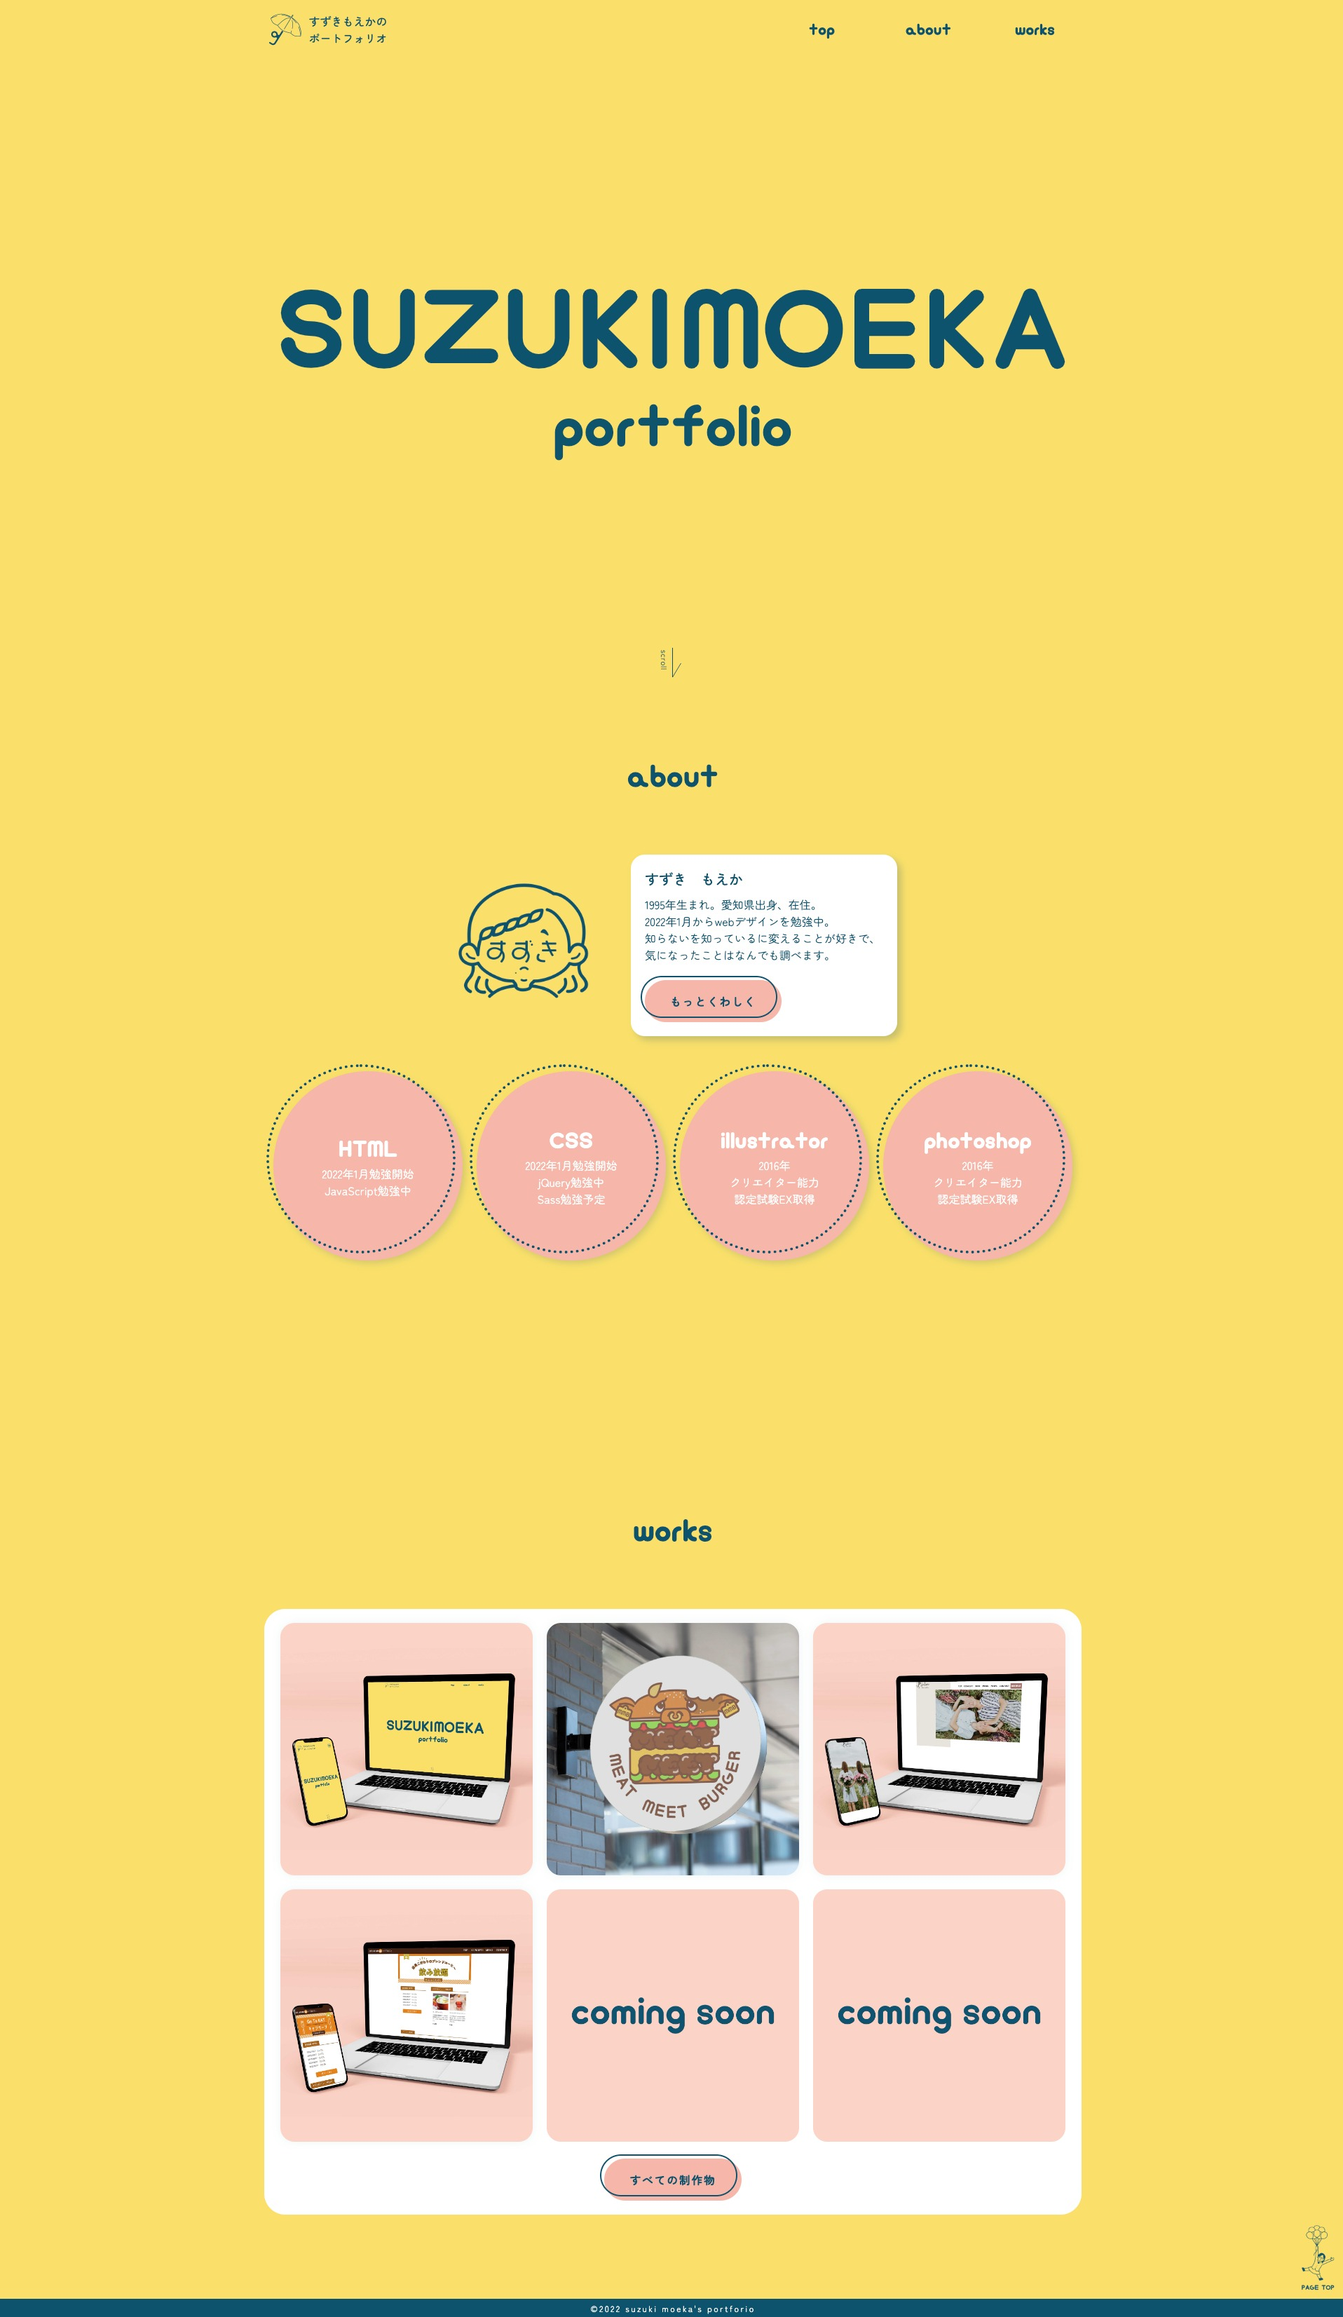
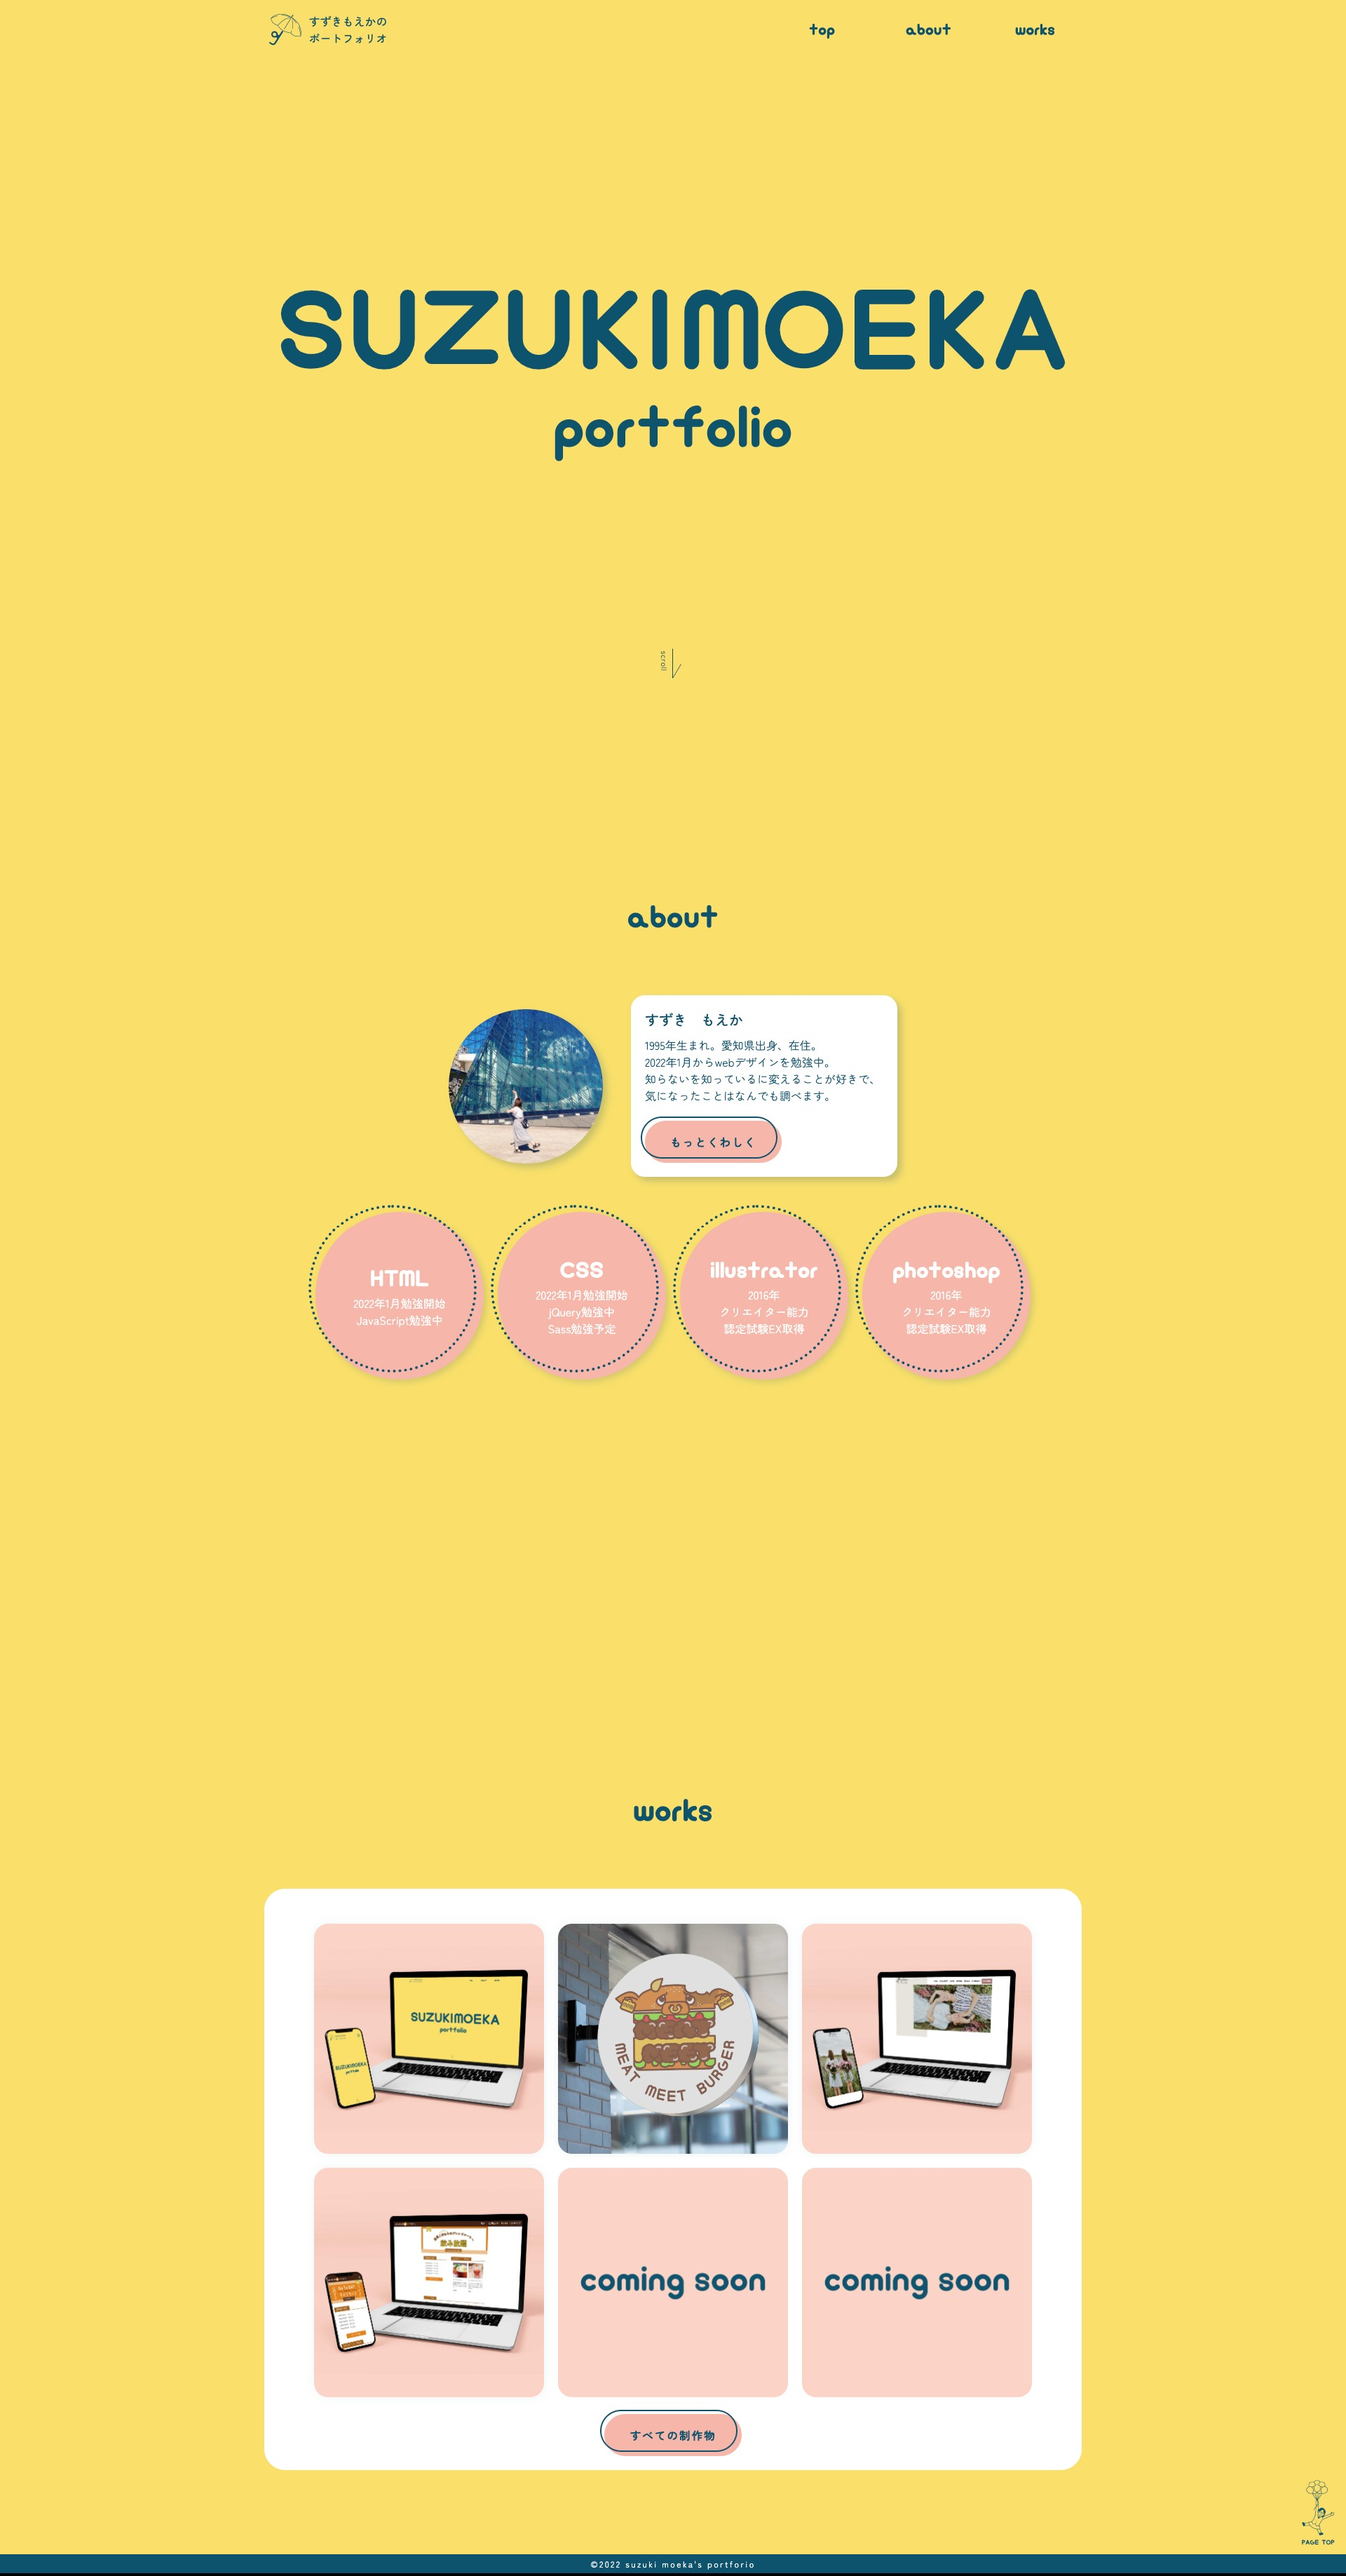
Add files via upload

diff --git a/index.html b/index.html
@@ -131,7 +131,7 @@
       <section id="about" class="contents fadeInUpTrigger">
         <h3>about</h3>
         <div class="prof">
-          <img src="./img/suzuki.png" alt="すずきもえか" width="596" height="596">
+          <img src="./img/suzuki.jpg" alt="すずきもえか" width="596" height="596">
           <div class="prof-inner">
             <h4>すずき　もえか</h4>
             <p class="txt">1995年生まれ。愛知県出身、在住。<br>2022年1月からwebデザインを勉強中。<br>知らないを知っているに変えることが好きで、<br>気になったことはなんでも調べます。

diff --git a/works.html b/works.html
@@ -140,7 +140,7 @@
           <h2>ヘアサロンサイト(架空)</h2>
           <div class="contents_inner">
             <div class="capture">
-              <img src="./img/hair-salon_01.jpg" alt="ヘアサロンのトップページ画像01">
+              <img src="./img/hair-salon01.png" alt="ヘアサロンのトップページ画像01">
               <img src="./img/hair-salon02.png" alt="ヘアサロンのトップページ画像01">
             </div>
             <!--.capture-->

diff --git a/about.html b/about.html
@@ -71,7 +71,7 @@
     <main id="main">
       <div class="about-inner">
         <section id="personal">
-          <img src="./img/suzuki.png" alt="すずきもえか">
+          <img src="./img/suzuki.jpg" alt="すずきもえか">
           <div class="top-txt">
             <h2>すずきもえか</h2>
             <p>愛知県出身、在住</p>

diff --git a/css/about.css b/css/about.css
@@ -14,6 +14,12 @@
   width: 21%;
 }
 
+#personal img {
+  border-radius: 50%;
+  box-shadow: 6px 6px 10px rgb(14 83 109 / 25%);
+  margin-bottom: 20px;
+}
+
 @media (max-width: 767px) {
   #personal {
     width: 100%;

diff --git a/css/style.css b/css/style.css
@@ -144,6 +144,8 @@ h3 {
 #about .prof img {
   width: clamp(180px, 19vw, 220px);
   height: clamp(180px, 19vw, 220px);
+  border-radius: 50%;
+  box-shadow: 6px 6px 10px rgb(14 83 109 / 25%);
 }
 
 #about .prof-inner {
